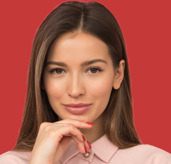
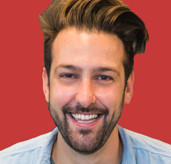
Changed Bob's image (#101)
* Changed Bob's images

* Changed Bob'd profile info and location

* Fixed category

diff --git a/Bob-Northwind/Bob-Northwind.md b/Bob-Northwind/Bob-Northwind.md
@@ -5,8 +5,8 @@ name: "Bob Northwind"
 nickname: "Bob Northwind"
 
 legacy_page_url: ""
-category: "Admin"
-role:  "Work Experience"
+category: "Developers"
+role:  "Sample Profile"
 qualifications:  ""
 location: "Sydney"
 
